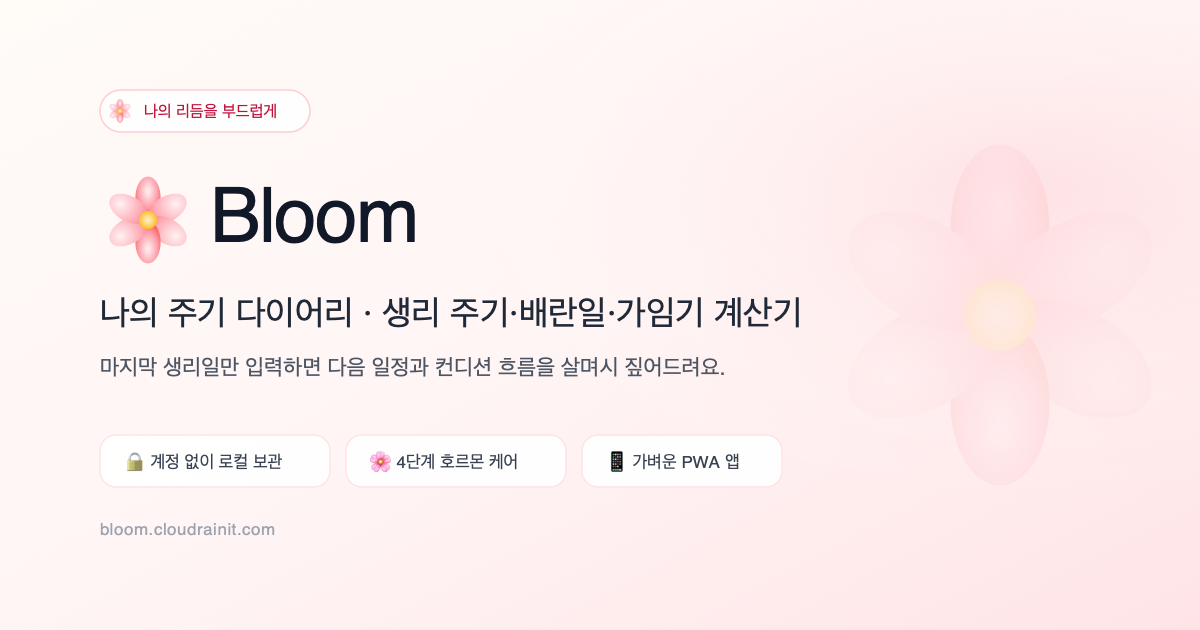
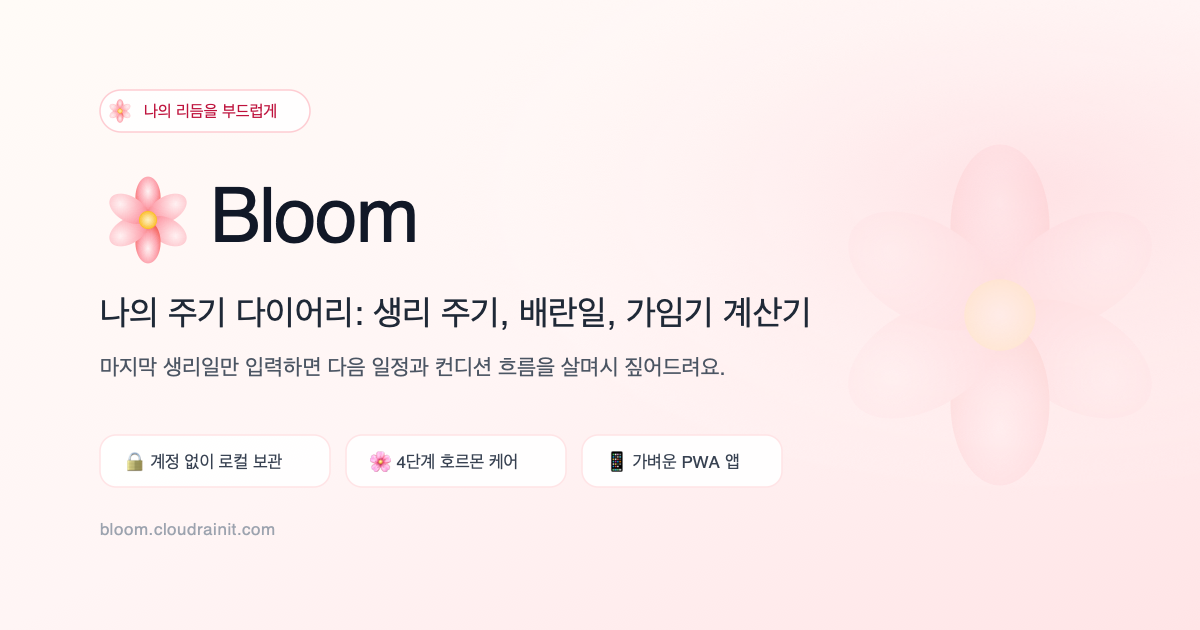
refactor: 중점 및 엠대시 기호 제거 및 문구 정리

Changed region(s): [[0.4933, 0.4524, 0.6783, 0.5429], [0.3083, 0.4524, 0.4317, 0.5429]]

diff --git a/bloom/index.html b/bloom/index.html
@@ -5,12 +5,12 @@
     <link rel="icon" type="image/svg+xml" href="/favicon.svg" />
     <link rel="apple-touch-icon" href="/apple-touch-icon.png" />
     <meta name="viewport" content="width=device-width, initial-scale=1.0" />
-    <title>Bloom · 나의 주기 다이어리 | 생리 주기·배란일·가임기 계산기</title>
+    <title>Bloom: 나의 주기 다이어리 | 생리 주기, 배란일, 가임기 계산기</title>
 
     <!-- SEO 기본 메타태그 -->
     <meta
       name="description"
-      content="Bloom — 마지막 생리 시작일과 평균 주기만 입력하면 다음 생리 예정일, 배란일, 가임기 계산부터 매일의 컨디션·증상 기록까지 한눈에 확인하는 가벼운 웹 주기 다이어리입니다."
+      content="Bloom: 마지막 생리 시작일과 평균 주기만 입력하면 다음 생리 예정일, 배란일, 가임기 계산부터 매일의 컨디션과 증상 기록까지 한눈에 확인하는 가벼운 웹 주기 다이어리입니다."
     />
     <meta
       name="keywords"
@@ -28,28 +28,28 @@
     <meta property="og:site_name" content="Bloom" />
     <meta property="og:locale" content="ko_KR" />
     <meta property="og:url" content="https://bloom.cloudrainit.com/" />
-    <meta property="og:title" content="Bloom · 나의 주기 다이어리 | 생리 주기·배란일·가임기 계산기" />
+    <meta property="og:title" content="Bloom: 나의 주기 다이어리 | 생리 주기, 배란일, 가임기 계산기" />
     <meta
       property="og:description"
-      content="마지막 생리 시작일과 평균 주기만 입력하면 다음 생리 예정일, 배란일, 가임기 계산부터 매일의 컨디션·증상 기록까지 한눈에 확인하세요."
+      content="마지막 생리 시작일과 평균 주기만 입력하면 다음 생리 예정일, 배란일, 가임기 계산부터 매일의 컨디션과 증상 기록까지 한눈에 확인하세요."
     />
     <meta property="og:image" content="https://bloom.cloudrainit.com/og-image.png" />
     <meta property="og:image:secure_url" content="https://bloom.cloudrainit.com/og-image.png" />
     <meta property="og:image:type" content="image/png" />
     <meta property="og:image:width" content="1200" />
     <meta property="og:image:height" content="630" />
-    <meta property="og:image:alt" content="Bloom — 나의 리듬을 부드럽게 따라가는 주기 다이어리" />
+    <meta property="og:image:alt" content="Bloom: 나의 리듬을 부드럽게 따라가는 주기 다이어리" />
 
     <!-- Twitter Cards -->
     <meta name="twitter:card" content="summary_large_image" />
     <meta name="twitter:url" content="https://bloom.cloudrainit.com/" />
-    <meta name="twitter:title" content="Bloom · 나의 주기 다이어리 | 생리 주기·배란일·가임기 계산기" />
+    <meta name="twitter:title" content="Bloom: 나의 주기 다이어리 | 생리 주기, 배란일, 가임기 계산기" />
     <meta
       name="twitter:description"
-      content="마지막 생리 시작일과 평균 주기만 입력하면 다음 생리 예정일, 배란일, 가임기 계산부터 매일의 컨디션·증상 기록까지 한눈에 확인하세요."
+      content="마지막 생리 시작일과 평균 주기만 입력하면 다음 생리 예정일, 배란일, 가임기 계산부터 매일의 컨디션과 증상 기록까지 한눈에 확인하세요."
     />
     <meta name="twitter:image" content="https://bloom.cloudrainit.com/og-image.png" />
-    <meta name="twitter:image:alt" content="Bloom — 나의 리듬을 부드럽게 따라가는 주기 다이어리" />
+    <meta name="twitter:image:alt" content="Bloom: 나의 리듬을 부드럽게 따라가는 주기 다이어리" />
 
     <!-- PWA 및 모바일 웹 설정 -->
     <meta name="theme-color" content="#f43f5e" />
@@ -77,19 +77,19 @@
             "@type": "WebSite",
             "@id": "https://bloom.cloudrainit.com/#website",
             "url": "https://bloom.cloudrainit.com/",
-            "name": "Bloom · 나의 주기 다이어리",
+            "name": "Bloom: 나의 주기 다이어리",
             "description": "마지막 생리 시작일과 평균 주기를 바탕으로 생리 예정일, 배란일, 가임기를 계산하고 컨디션을 기록하는 주기 다이어리",
             "inLanguage": "ko-KR"
           },
           {
             "@type": "WebApplication",
             "@id": "https://bloom.cloudrainit.com/#webapp",
-            "name": "Bloom · 나의 주기 다이어리",
+            "name": "Bloom: 나의 주기 다이어리",
             "url": "https://bloom.cloudrainit.com/",
             "applicationCategory": "HealthApplication",
             "operatingSystem": "All",
             "browserRequirements": "Requires JavaScript. Requires HTML5.",
-            "description": "마지막 생리 시작일과 평균 주기만 입력하면 다음 생리 예정일, 배란일, 가임기 계산부터 매일의 컨디션·증상 기록까지 한눈에 확인하는 가벼운 웹 주기 다이어리",
+            "description": "마지막 생리 시작일과 평균 주기만 입력하면 다음 생리 예정일, 배란일, 가임기 계산부터 매일의 컨디션과 증상 기록까지 한눈에 확인하는 가벼운 웹 주기 다이어리",
             "offers": {
               "@type": "Offer",
               "price": "0",
@@ -99,7 +99,7 @@
               "생리 주기 계산 및 다음 예정일 예측",
               "배란일 및 가임기 자동 계산",
               "일별 증상 및 컨디션 이모지 기록",
-              "생리 중·여포기·배란기·황체기 단계별 맞춤 가이드",
+              "생리 중, 여포기, 배란기, 황체기 단계별 맞춤 가이드",
               "오프라인 PWA 지원 및 브라우저 로컬 저장",
               "계정 연동을 통한 기기 간 클라우드 동기화"
             ]
@@ -129,7 +129,7 @@
                 "name": "Bloom에서 제공하는 주기별 단계 가이드는 무엇인가요?",
                 "acceptedAnswer": {
                   "@type": "Answer",
-                  "text": "호르몬 변화에 따라 생리 중, 여포기, 배란기, 황체기의 4단계로 구분하여 각 단계별 신체적·심리적 특징, 추천 식단, 권장 활동, 생리 준비물 팁을 맞춤형으로 안내합니다."
+                  "text": "호르몬 변화에 따라 생리 중, 여포기, 배란기, 황체기의 4단계로 구분하여 각 단계별 신체적, 심리적 특징, 추천 식단, 권장 활동, 생리 준비물 팁을 맞춤형으로 안내합니다."
                 }
               }
             ]
@@ -143,7 +143,7 @@
       <!-- 검색 봇 초기 크롤링 및 JS 로딩 전 시맨틱 콘텐츠 제공 -->
       <header style="max-width: 768px; margin: 0 auto; padding: 32px 16px; font-family: Pretendard, -apple-system, sans-serif;">
         <p style="color: #f43f5e; font-size: 14px; font-weight: 600; margin-bottom: 8px;">나의 리듬을 부드럽게</p>
-        <h1 style="color: #111827; font-size: 28px; font-weight: 800; margin: 0 0 12px 0;">Bloom · 나의 주기 다이어리</h1>
+        <h1 style="color: #111827; font-size: 28px; font-weight: 800; margin: 0 0 12px 0;">Bloom: 나의 주기 다이어리</h1>
         <p style="color: #4b5563; font-size: 16px; line-height: 1.6; margin: 0 0 20px 0;">
           마지막 생리 시작일과 평균 주기만 알려주세요. 다음 생리 예정일, 배란일, 가임기와 컨디션 흐름을 부드럽게 짚어드립니다.
         </p>

diff --git a/bloom/src/hooks/usePageMeta.ts b/bloom/src/hooks/usePageMeta.ts
@@ -9,25 +9,25 @@ export interface RouteMeta {
 
 export const ROUTE_METAS: Record<string, RouteMeta> = {
   '/': {
-    title: 'Bloom · 나의 주기 다이어리 | 생리 주기·배란일·가임기 계산기',
+    title: 'Bloom: 나의 주기 다이어리 | 생리 주기, 배란일, 가임기 계산기',
     description:
-      '마지막 생리 시작일과 평균 주기만 입력하면 다음 생리 예정일, 배란일, 가임기 계산부터 매일의 컨디션·증상 기록까지 한눈에 확인하세요.',
+      '마지막 생리 시작일과 평균 주기만 입력하면 다음 생리 예정일, 배란일, 가임기 계산부터 매일의 컨디션과 증상 기록까지 한눈에 확인하세요.',
     canonicalPath: '/',
   },
   '/symptoms': {
-    title: '증상 관리 | 일별 컨디션 및 생리 증상 기록 · Bloom',
+    title: '증상 관리 | 일별 컨디션 및 생리 증상 기록 (Bloom)',
     description:
       '복통, 두통, 피로 등 오늘의 신체 및 감정 증상을 귀여운 이모지로 간편하게 기록하고 이전 기록을 확인해 보세요.',
     canonicalPath: '/symptoms',
   },
   '/history': {
-    title: '이력 관리 | 나의 주기 기록 보관함 · Bloom',
+    title: '이력 관리 | 나의 주기 기록 보관함 (Bloom)',
     description:
       '지금까지 저장된 생리 주기 기록을 불러오거나 관리할 수 있습니다. 로그인 시 안전하게 클라우드에 동기화됩니다.',
     canonicalPath: '/history',
   },
   '/login': {
-    title: '로그인 | 계정 연동 및 데이터 동기화 · Bloom',
+    title: '로그인 | 계정 연동 및 데이터 동기화 (Bloom)',
     description:
       'Bloom 계정으로 로그인하고 기기가 바뀌어도 소중한 생리 주기와 증상 기록을 안전하게 이어가세요.',
     canonicalPath: '/login',

diff --git a/bloom/src/pages/HistoryPage.tsx b/bloom/src/pages/HistoryPage.tsx
@@ -68,7 +68,7 @@ export default function HistoryPage() {
                   {formatDate(new Date(entry.lastPeriodDate))} 시작
                 </p>
                 <p className="mt-1 text-xs text-gray-500">
-                  주기 {entry.cycleLength}일 · 생리 기간 {entry.periodLength}일
+                  주기 {entry.cycleLength}일, 생리 기간 {entry.periodLength}일
                 </p>
                 <p className="mt-1 text-[11px] text-gray-400">
                   저장일 {formatDate(new Date(entry.savedAt))}

diff --git a/bloom/src/App.tsx b/bloom/src/App.tsx
@@ -89,7 +89,7 @@ function App() {
             <BloomMark className="h-10 w-10 drop-shadow-sm" />
             <h1 className="font-display text-4xl font-bold tracking-tight text-gray-900 sm:text-5xl">
               Bloom
-              <span className="sr-only"> · 생리 주기·배란일·가임기 계산기</span>
+              <span className="sr-only">: 생리 주기, 배란일, 가임기 계산기</span>
             </h1>
           </Link>
           <p className="mt-3 text-sm text-gray-600 sm:text-base">

diff --git a/bloom/src/components/ResultCard.tsx b/bloom/src/components/ResultCard.tsx
@@ -74,7 +74,7 @@ export default function ResultCard() {
           label="다음 생리 예정일"
           accent="text-red-600"
           headline={formatDate(prediction.nextPeriodStart)}
-          sub={`${daysLabel(prediction.daysUntilNextPeriod)} · ~${formatShortDate(
+          sub={`${daysLabel(prediction.daysUntilNextPeriod)}, ~${formatShortDate(
             prediction.nextPeriodEnd,
           )}`}
         />

diff --git a/bloom/src/components/PhaseGuide.tsx b/bloom/src/components/PhaseGuide.tsx
@@ -119,7 +119,7 @@ export default function PhaseGuide() {
                   <span className={`mt-1 shrink-0 ${accent.bullet}`}>●</span>
                   <span className="text-gray-600">
                     <span className="font-semibold text-gray-800">{s.name}</span>
-                    {' — '}
+                    {': '}
                     {s.desc}
                   </span>
                 </li>

diff --git a/bloom/vite.config.ts b/bloom/vite.config.ts
@@ -41,7 +41,7 @@ export default defineConfig({
         'og-image.png',
       ],
       manifest: {
-        name: 'Bloom · 나의 주기 다이어리',
+        name: 'Bloom: 나의 주기 다이어리',
         short_name: 'Bloom',
         description:
           '마지막 생리 시작일과 평균 주기를 바탕으로 다음 일정과 컨디션 흐름을 안내합니다.',

diff --git a/bloom/src/components/AccountPanel.tsx b/bloom/src/components/AccountPanel.tsx
@@ -8,7 +8,7 @@ const SYNC_LABEL: Record<RemoteStatus, string> = {
   local: '로컬에만 저장',
   syncing: '서버 동기화 중…',
   synced: '서버에 저장됨',
-  error: '동기화 실패 · 로컬에만 저장',
+  error: '동기화 실패 (로컬에만 저장)',
 };
 
 const SYNC_DOT: Record<RemoteStatus, string> = {
